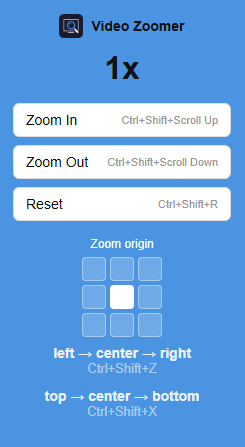
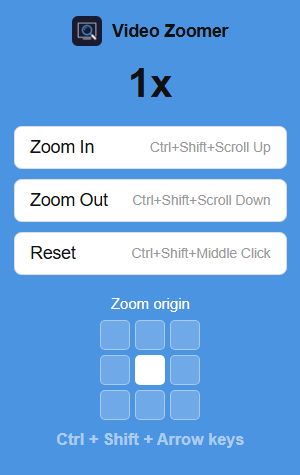
Update README, popup styling, and screenshot

diff --git a/popup.html b/popup.html
@@ -38,14 +38,7 @@
       <button class="origin-btn" data-origin="right bottom"></button>
     </div>
     <div class="origin-hints">
-      <div class="origin-hint-item">
-        <div class="origin-hint-direction">left → center → right</div>
-        <div class="origin-hint-key">Ctrl+Shift+←/→</div>
-      </div>
-      <div class="origin-hint-item">
-        <div class="origin-hint-direction">top → center → bottom</div>
-        <div class="origin-hint-key">Ctrl+Shift+↑/↓</div>
-      </div>
+      <div class="origin-hint-key">Ctrl + Shift + Arrow keys</div>
     </div>
   </div>
   <script src="popup.js"></script>

diff --git a/popup.css b/popup.css
@@ -122,5 +122,6 @@ button:hover {
 
 .origin-hint-key {
   font-size: 13px;
+  font-weight: bold;
   color: rgba(255, 255, 255, 0.55);
 }

diff --git a/README.md b/README.md
@@ -8,11 +8,11 @@ A Chrome extension that lets users zoom into any HTML5 video on any website usin
 
 - Zoom in, zoom out, and reset zoom on any HTML5 video
 - Works on YouTube, embedded YouTube players, and other sites with native HTML5 video
-- Zoom in/out via Ctrl+Shift+Scroll wheel, cycle zoom anchor point with keyboard shortcuts
+- Zoom in/out via Ctrl+Shift+Scroll, reset via Ctrl+Shift+Middle Click, and move the zoom anchor point with Ctrl+Shift+Arrow keys
 - Popup UI showing the current zoom level with buttons
 - Zoom state is preserved even when the browser is idle
 - Maximum zoom capped at 4x, minimum at 1x
-- 3x3 origin picker to control the zoom anchor point (top, center, bottom × left, center, right)
+- 3x3 origin picker to control the zoom anchor point via the popup grid or Ctrl+Shift+Arrow keys
 
 ## Keyboard Shortcuts
 
@@ -20,9 +20,8 @@ A Chrome extension that lets users zoom into any HTML5 video on any website usin
 |---|---|
 | Zoom In | Ctrl+Shift+Scroll Up |
 | Zoom Out | Ctrl+Shift+Scroll Down |
-| Reset Zoom | Ctrl+Shift+R |
-| Cycle origin horizontal (left → center → right) | Ctrl+Shift+Z |
-| Cycle origin vertical (top → center → bottom) | Ctrl+Shift+X |
+| Reset Zoom | Ctrl+Shift+Middle Click |
+| Move zoom origin | Ctrl+Shift+Arrow keys |
 
 ## Screenshot
 
@@ -38,13 +37,13 @@ A Chrome extension that lets users zoom into any HTML5 video on any website usin
 
 ## Supported Sites
 
-Works on any site with a native HTML5 video element. YouTube and embedded YouTube players are confirmed to work. Sites that load video via blob URLs from a different origin (such as Vimeo embeds) may not be supported due to browser security restrictions.
+Works on any site with a native HTML5 video element. YouTube and embedded YouTube players are confirmed to work. Video players rendered inside a Shadow DOM (used by some news sites) are also supported as a fallback when the video cannot be found via normal means. Sites that load video via blob URLs from a different origin (such as Vimeo embeds) may not be supported due to browser security restrictions.
 
 ## Project Structure
 
 - `manifest.json` — Extension configuration (MV3)
 - `background.js` — Service worker, handles zoom logic and keyboard shortcuts
-- `content.js` — Content script, listens for Ctrl+Shift+Scroll to trigger zoom
+- `content.js` — Content script, handles Ctrl+Shift+Scroll (zoom), Arrow keys (move origin), and Middle Click (reset)
 - `popup.html` — Popup UI structure
 - `popup.css` — Popup styles
 - `popup.js` — Popup logic, reads zoom state and sends commands